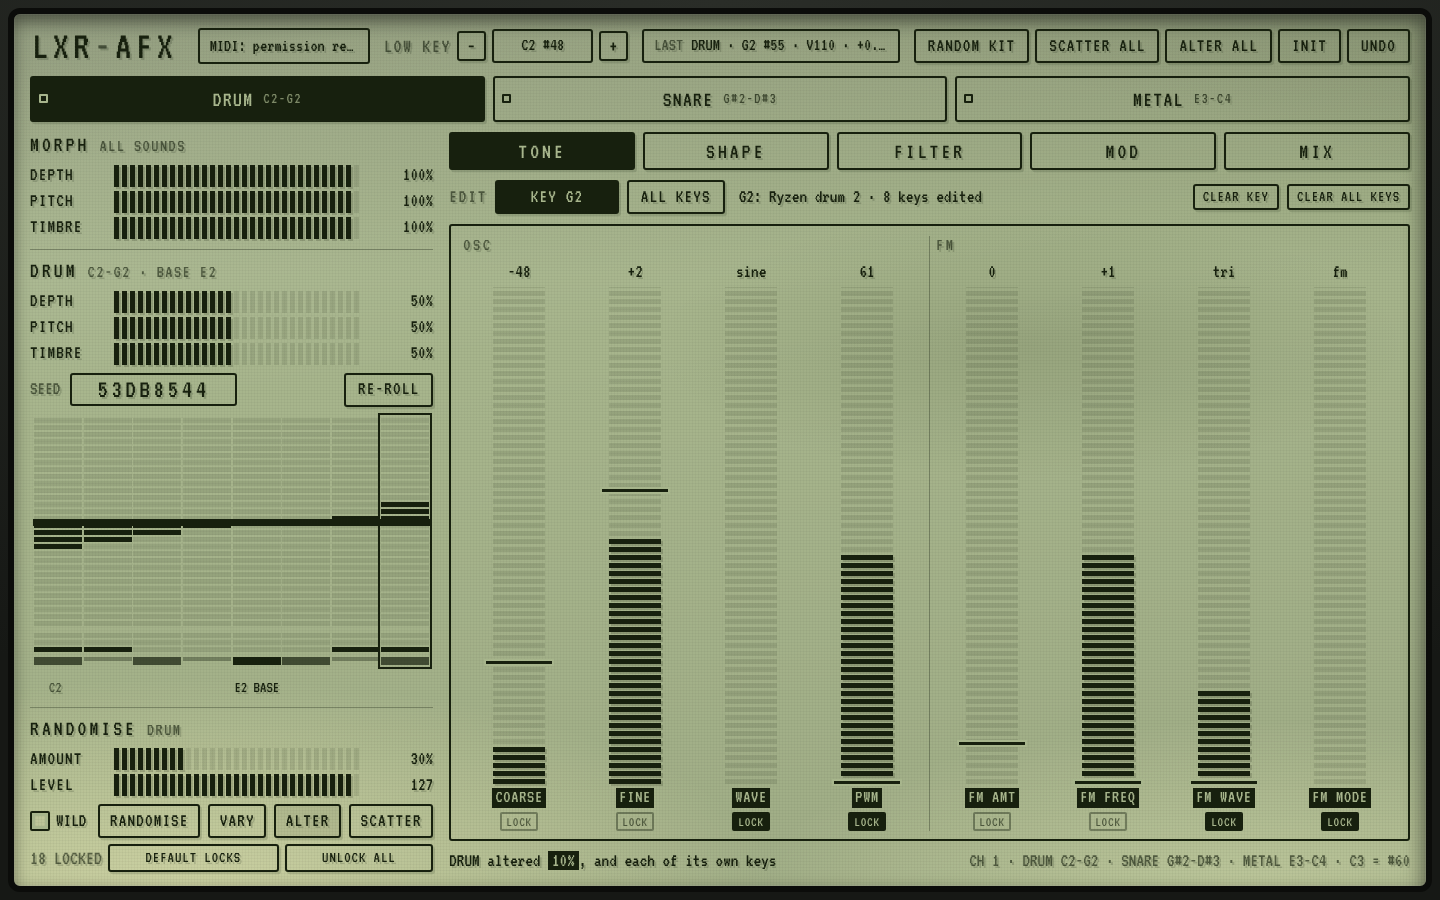
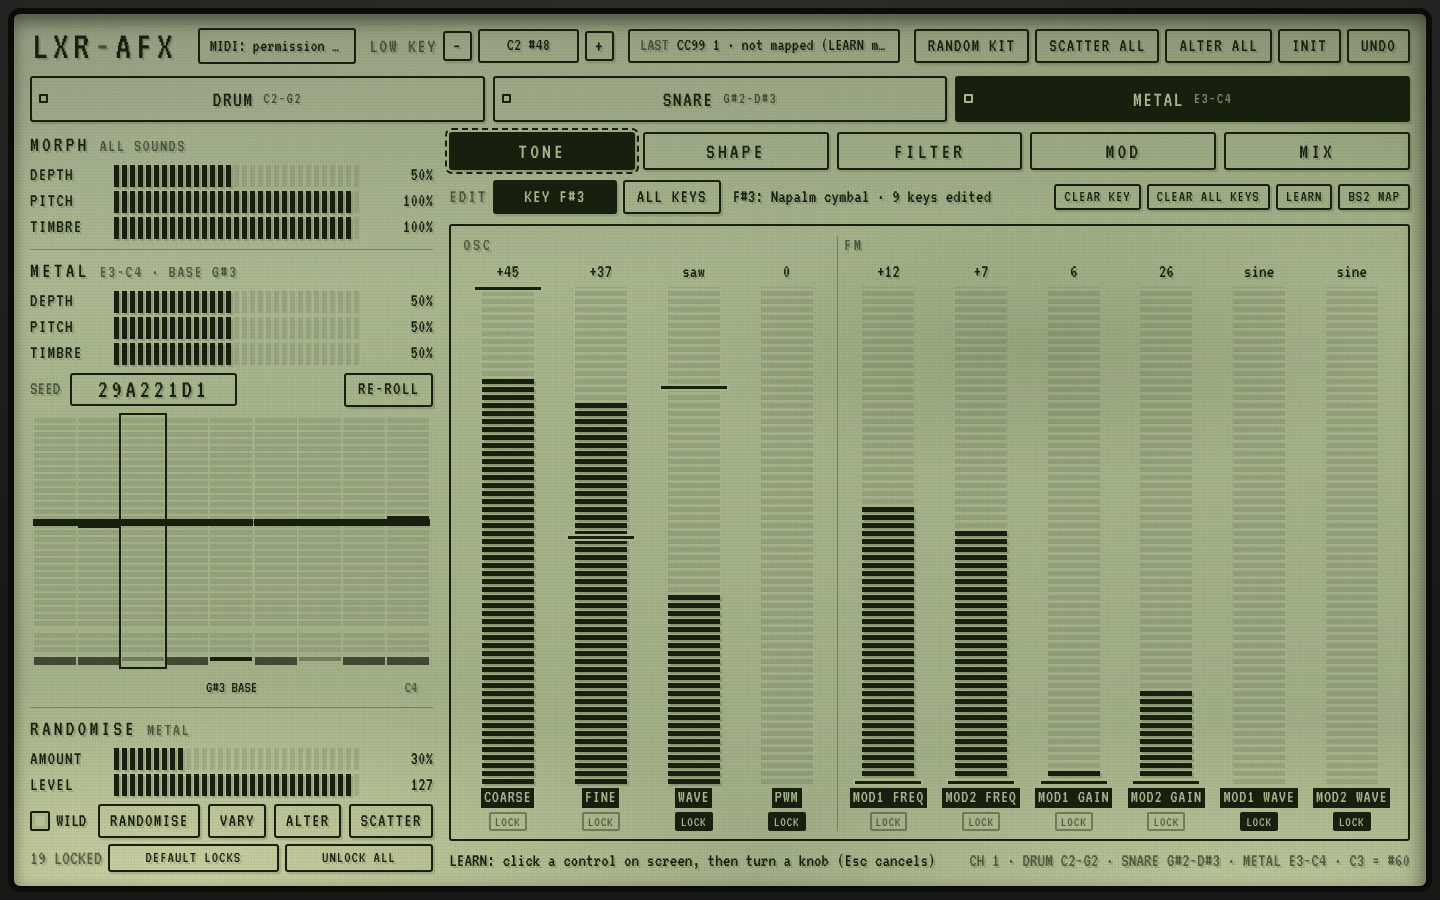
Bass Station 2 knobs: CC map on channel 1, LEARN, editor follows the sound played
Claude-Session: https://claude.ai/code/session_018ENZqU77miybkZNfffD9E3

diff --git a/app/main.js b/app/main.js
@@ -27,6 +27,7 @@ const S = {
   // per-key edits: keyEdits[sound][note] = { parameter: value }, laid over that key's morph
   keyEdits: SOUNDS.map(() => ({})),
   editAll: false,
+  ccMap: null, // knob map, CC number -> target; null: the Bass Station 2 default
   zoneStart: DEFAULT_ZONE_START, // the layout's lowest key (moved by octaves with LOW KEY) // the editor edits the last key pressed (false) or the base of every key (true)
 };
 try {
@@ -35,7 +36,7 @@ try {
     S.values = Uint8Array.from(d.values); S.defaults = Uint8Array.from(d.defaults || d.values);
     Object.assign(S.global, d.global); d.sounds.forEach((s, i) => Object.assign(S.sounds[i], s));
     S.locks = new Set(d.locks); Object.assign(S.rand, d.rand); S.sel = d.sel | 0; S.page = d.page | 0;
-    if (d.keyEdits) d.keyEdits.forEach((k, i) => { S.keyEdits[i] = k || {}; }); S.editAll = !!d.editAll; if (d.zoneStart) S.zoneStart = d.zoneStart;
+    if (d.keyEdits) d.keyEdits.forEach((k, i) => { S.keyEdits[i] = k || {}; }); S.editAll = !!d.editAll; if (d.zoneStart) S.zoneStart = d.zoneStart; S.ccMap = d.ccMap || null;
   }
 } catch (e) { /* first visit, or storage blocked */ }
 let saveT = 0;
@@ -44,7 +45,7 @@ const save = () => {
   saveT = setTimeout(() => {
     try {
       localStorage.setItem(STORE, JSON.stringify({ values: [...S.values], defaults: [...S.defaults], global: S.global, sounds: S.sounds,
-        locks: [...S.locks], rand: S.rand, sel: S.sel, page: S.page, keyEdits: S.keyEdits, editAll: S.editAll, zoneStart: S.zoneStart }));
+        locks: [...S.locks], rand: S.rand, sel: S.sel, page: S.page, keyEdits: S.keyEdits, editAll: S.editAll, zoneStart: S.zoneStart, ccMap: S.ccMap }));
     } catch (e) { /* storage blocked: it just isn't kept */ }
   }, 300);
 };
@@ -95,7 +96,8 @@ function play(sound, note, vel) {
   lastMorph[sound] = { key: note, values: m.vals, semitones: m.semitones };
   editKey[sound] = note;
   showLast(sound, note, vel, m.semitones);
-  if (sound === S.sel) { drawFaders(); drawKeymap(); drawEditKey(); }
+  // the editor follows the sound you play, so the knobs and the screen are always on the key you just pressed
+  if (sound !== S.sel) select(sound); else { drawFaders(); drawKeymap(); drawEditKey(); }
 }
 const pct = (o) => Object.fromEntries(Object.entries(o).map(([k, v]) => [k, k === 'seed' ? v : v / 100]));
 
@@ -129,8 +131,9 @@ let midi = null;
 function midiStatus(text, live) { const el = $('midi-status'); el.textContent = text; el.classList.toggle('live', !!live); el.title = text; }
 function onMidi(e) {
   const [st, note, vel] = e.data;
-  if ((st & 0xf0) !== 0x90 || !vel) return; // note-ons only (a note-on at velocity 0 is a note-off)
   const ch = (st & 0x0f) + 1;
+  if ((st & 0xf0) === 0xb0) { if (ch === 1) onCC(note, vel); return; } // a knob or slider (control change)
+  if ((st & 0xf0) !== 0x90 || !vel) return; // note-ons only (a note-on at velocity 0 is a note-off)
   noteOn(ch, note, vel);
 }
 function noteOn(ch, note, vel) {
@@ -151,8 +154,77 @@ async function startMidi() {
     midi.onstatechange = hook; hook();
   } catch (err) { midiStatus('MIDI: permission refused'); }
 }
-// for testing without a controller: afx.noteOn(channel, note, velocity) from the console
-window.afx = { noteOn: (ch, note, vel = 100) => noteOn(ch, note, vel) };
+// ---------------------------------------------------------------------------------------------------------------
+// knobs: MIDI CCs on channel 1. Sound controls act like the editor: on the last key played (or every key with ALL
+// KEYS), of the sound last played. The default map suits a Bass Station 2 (its CC numbers); LEARN maps any knob
+// ---------------------------------------------------------------------------------------------------------------
+// a target: { t: 'par', label: [labels to try, in order] } | { t: 'global', k } | { t: 'sound', k } | { t: 'zlevel', s }
+const CC_DEFAULT = {
+  16: { t: 'par', label: ['cutoff'], name: 'filter freq' }, 82: { t: 'par', label: ['reso'], name: 'resonance' },
+  114: { t: 'par', label: ['drive'], name: 'overdrive' }, 85: { t: 'par', label: ['pitch amt', 'mod2 gain'], name: 'mod env depth' },
+  90: { t: 'par', label: ['attack'], name: 'amp attack' }, 91: { t: 'par', label: ['decay'], name: 'amp decay' },
+  103: { t: 'par', label: ['pitch dec', 'mod1 freq'], name: 'mod env decay' }, 94: { t: 'par', label: ['fm amt', 'mod1 gain'], name: 'distortion' },
+  27: { t: 'par', label: ['coarse'], name: 'osc 1 coarse' }, 26: { t: 'par', label: ['fine'], name: 'osc 1 fine' },
+  18: { t: 'global', k: 'depth', name: 'lfo 1 speed' }, 5: { t: 'global', k: 'pitch', name: 'portamento' }, 19: { t: 'global', k: 'timbre', name: 'lfo 2 speed' },
+  20: { t: 'zlevel', s: 0, name: 'osc 1 level' }, 21: { t: 'zlevel', s: 1, name: 'osc 2 level' }, 22: { t: 'zlevel', s: 2, name: 'sub osc level' },
+};
+const ccMap = () => S.ccMap || CC_DEFAULT;
+function ccTargetName(t) {
+  if (t.t === 'par') return t.label[0];
+  if (t.t === 'global') return 'morph ' + t.k + ' (all)';
+  if (t.t === 'sound') return 'morph ' + t.k;
+  return SOUNDS[t.s].name.toLowerCase() + ' level';
+}
+let learn = null; // null, { armed: true } waiting for a control, then { target } waiting for a knob
+let ccDraw = 0;
+function onCC(cc, val) {
+  if (learn && learn.target) {
+    S.ccMap = { ...ccMap() };
+    for (const k in S.ccMap) if (JSON.stringify(S.ccMap[k]) === JSON.stringify(learn.target)) delete S.ccMap[k]; // one knob per control
+    S.ccMap[cc] = learn.target; save();
+    showLastText(`CC${cc} → ${ccTargetName(learn.target).toUpperCase()}`);
+    setLearn(null); return;
+  }
+  const t = ccMap()[cc];
+  if (!t) { showLastText(`CC${cc} ${val} · not mapped (LEARN maps it)`); return; }
+  let text;
+  if (t.t === 'global') { S.global[t.k] = Math.round(val / 127 * 100); text = `${ccTargetName(t)} ${S.global[t.k]}%`; }
+  else if (t.t === 'sound') { S.sounds[S.sel][t.k] = Math.round(val / 127 * 100); text = `${SOUNDS[S.sel].name} ${ccTargetName(t)} ${S.sounds[S.sel][t.k]}%`; }
+  else if (t.t === 'zlevel') { setValue(PAR.VOL1 + SOUNDS[t.s].engineVoice, val); text = `${ccTargetName(t)} ${val}`; }
+  else {
+    const sc = VOICE_SCHEMAS[SOUNDS[S.sel].engineVoice];
+    const e = t.label.map((l) => sc.find((x) => x.label === l)).find(Boolean);
+    if (!e) { showLastText(`CC${cc} · ${SOUNDS[S.sel].name} has no ${t.label[0]}`); return; }
+    const v = Math.round(val / 127 * e.max);
+    editValue(e.par, v);
+    text = `${SOUNDS[S.sel].name} ${editing() ? noteName(editKey[S.sel]) : 'ALL'} ${e.label} ${showValue(e, v)}`;
+  }
+  save();
+  showLastText(`CC${cc} · ${text.toUpperCase()}`);
+  if (!ccDraw) ccDraw = requestAnimationFrame(() => { ccDraw = 0; drawFaders(); drawSide(); });
+}
+// LEARN: press it, touch a control on screen, turn a knob
+function setLearn(l) {
+  learn = l;
+  $('learn').setAttribute('aria-pressed', !!l);
+  document.body.classList.toggle('learning', !!l);
+  if (l && !l.target) detail('LEARN: click a control on screen, then turn a knob (Esc cancels)');
+  else if (l) detail(`LEARN: now turn a knob for <em>${ccTargetName(l.target)}</em>`);
+}
+$('learn').addEventListener('click', () => setLearn(learn ? null : { armed: true }));
+$('cc-reset').addEventListener('click', () => { S.ccMap = null; save(); setLearn(null); detail('knobs: back to the Bass Station 2 map'); });
+document.addEventListener('pointerdown', (e) => {
+  if (!learn) return;
+  const el = e.target.closest('[data-learn]');
+  if (!el) return;
+  const t = JSON.parse(el.dataset.learn);
+  if (t.t === 'zlevel') t.s = S.sel;
+  setLearn({ target: t });
+}, true);
+document.addEventListener('keydown', (e) => { if (e.key === 'Escape' && learn) setLearn(null); });
+
+// for testing without a controller: afx.noteOn(channel, note, velocity) and afx.cc(number, value) from the console
+window.afx = { noteOn: (ch, note, vel = 100) => noteOn(ch, note, vel), cc: (cc, val) => onCC(cc, val) };
 
 // ---------------------------------------------------------------------------------------------------------------
 // the last note
@@ -213,6 +285,7 @@ function hbar(box, label, o) {
   el.querySelector('.lab').textContent = label;
   const tr = el.querySelector('.htrack'), out = el.querySelector('output');
   tr.setAttribute('aria-label', label); tr.setAttribute('aria-valuemin', o.min); tr.setAttribute('aria-valuemax', o.max);
+  if (o.learn) el.dataset.learn = JSON.stringify(o.learn);
   const draw = () => { const v = o.get(); tr.style.setProperty('--f', (v - o.min) / (o.max - o.min)); out.textContent = o.show(v); tr.setAttribute('aria-valuenow', v); };
   const put = (v) => { v = clamp(Math.round(v), o.min, o.max); if (v !== o.get()) { o.set(v); draw(); } };
   dragger(tr, 'x', { ...o, put });
@@ -225,9 +298,9 @@ function hbar(box, label, o) {
 // ---- the morph bars ----
 const P = (v) => v + '%';
 const globalDraws = ['depth', 'pitch', 'timbre'].map((k) => hbar($('global-bars'), k.toUpperCase(), {
-  min: 0, max: 100, get: () => S.global[k], set: (v) => { S.global[k] = v; save(); drawKeymap(); }, show: P, dflt: 100 }));
+  min: 0, max: 100, get: () => S.global[k], set: (v) => { S.global[k] = v; save(); drawKeymap(); }, show: P, dflt: 100, learn: { t: 'global', k } }));
 const soundDraws = ['depth', 'pitch', 'timbre'].map((k) => hbar($('sound-bars'), k.toUpperCase(), {
-  min: 0, max: 100, get: () => S.sounds[S.sel][k], set: (v) => { S.sounds[S.sel][k] = v; save(); drawKeymap(); }, show: P, dflt: 50 }));
+  min: 0, max: 100, get: () => S.sounds[S.sel][k], set: (v) => { S.sounds[S.sel][k] = v; save(); drawKeymap(); }, show: P, dflt: 50, learn: { t: 'sound', k } }));
 $('reroll').addEventListener('click', () => reroll());
 function reroll() { S.sounds[S.sel].seed = newSeed(); lastMorph[S.sel] = null; save(); drawSide(); drawFaders(); detail(`${SOUNDS[S.sel].name}: new seed <em>${hex(S.sounds[S.sel].seed)}</em>`); }
 
@@ -235,7 +308,7 @@ function reroll() { S.sounds[S.sel].seed = newSeed(); lastMorph[S.sel] = null; s
 const levelPar = () => PAR['VOL' + (SOUNDS[S.sel].engineVoice + 1)];
 const randDraws = [
   hbar($('rand-bars'), 'AMOUNT', { min: 0, max: 100, get: () => S.rand.amount, set: (v) => { S.rand.amount = v; save(); }, show: P, dflt: 30 }),
-  hbar($('rand-bars'), 'LEVEL', { min: 0, max: 127, get: () => S.values[levelPar()], set: (v) => { setValue(levelPar(), v); drawFaders(); }, show: String, dflt: () => S.defaults[levelPar()] }),
+  hbar($('rand-bars'), 'LEVEL', { min: 0, max: 127, get: () => S.values[levelPar()], set: (v) => { setValue(levelPar(), v); drawFaders(); }, show: String, dflt: () => S.defaults[levelPar()], learn: { t: 'zlevel', s: 0 } }),
 ];
 $('wild').checked = S.rand.wild;
 $('wild').addEventListener('change', () => { S.rand.wild = $('wild').checked; save(); });
@@ -386,6 +459,7 @@ function vfader(e) {
     else put(S.defaults[e.par]);
   };
   el.querySelector('.lab').addEventListener('dblclick', reset); tr.addEventListener('dblclick', reset);
+  el.dataset.learn = JSON.stringify({ t: 'par', label: [e.label] });
   tr.addEventListener('focus', () => detail(`${SOUNDS[S.sel].name} ${e.label.toUpperCase()} <em>${showValue(e, valueNow(e.par))}</em>`));
   lock.addEventListener('click', () => { if (S.locks.has(e.par)) S.locks.delete(e.par); else S.locks.add(e.par); save(); draw(); drawLocks(); });
   faderDraws.push(draw);

diff --git a/css/lcd.css b/css/lcd.css
@@ -131,11 +131,12 @@ h2 .dim { font-size: 18px; letter-spacing: .08em; }
 .vf.held .vtrack { outline: 2px solid var(--ink); outline-offset: 3px; }
 .vf.changed .lab::after { content: "*"; }
 .vf.keyed .lab, .vsel.keyed label { background: var(--ink); color: var(--panel); text-shadow: none; padding: 0 3px; }
-.editbar { display: flex; align-items: center; gap: 8px; font-size: 19px; }
+.editbar { display: flex; align-items: center; gap: 6px; font-size: 19px; min-width: 0; }
 .editbar > .dim { letter-spacing: .1em; }
 .editbar #edit-key { min-width: 6.5em; }
-.editbar .info { flex: 1; white-space: nowrap; overflow: hidden; text-overflow: ellipsis; padding-left: 6px; }
+.editbar .info { flex: 1; min-width: 0; white-space: nowrap; overflow: hidden; text-overflow: ellipsis; padding-left: 6px; }
 .keymap canvas { cursor: pointer; }
+body.learning [data-learn] { outline: 2px dashed var(--ink); outline-offset: 2px; cursor: crosshair; }
 .lock { border: 2px solid var(--ink); border-radius: 2px; background: transparent; font-size: 14px; line-height: 1; padding: 1px 4px 0; cursor: pointer;
   letter-spacing: .06em; color: var(--muted); border-color: rgba(23, 32, 14, .4); text-shadow: none; }
 .lock[aria-pressed="true"] { background: var(--ink); color: var(--panel); border-color: var(--ink); }

diff --git a/index.html b/index.html
@@ -70,6 +70,8 @@
         <span id="edit-info" class="info"></span>
         <button class="btn sm" id="clear-key" title="This key back to its plain morph">CLEAR KEY</button>
         <button class="btn sm" id="clear-keys" title="Every key of this sound back to its plain morph">CLEAR ALL KEYS</button>
+        <button class="btn sm" id="learn" title="Map a knob: press, click a control on screen, turn the knob">LEARN</button>
+        <button class="btn sm" id="cc-reset" title="Knobs back to the Bass Station 2 map">BS2 MAP</button>
       </div>
       <div class="faders" id="faders"></div>
       <footer class="status"><span id="detail">Play a key, then edit: the change stays on that key. ALL KEYS edits the base, and every key follows.</span>

diff --git a/README.md b/README.md
@@ -16,7 +16,12 @@ An AFX-mode drum instrument in the browser: three sounds on one MIDI channel, ev
 - **Editor**: every parameter of each sound (tone, shape, filter, mod, mix). By default an edit changes only the last key
   pressed (or the key picked on the key map), kept on top of that key's morph; **ALL KEYS** edits the base instead, and
   every key's morph follows. **CLEAR KEY** / **CLEAR ALL KEYS** take a sound's key edits away.
-- **Randomisers**: **RANDOMISE** pulls in a variant from the built-in kits (a voice of the same type from a random kit,
+- **Knobs** (MIDI CC on channel 1), mapped for a Bass Station 2: they act on the last key played, like the editor (which
+  follows the sound you play). Filter freq → cutoff, resonance → reso, overdrive → drive, amp attack/decay → attack/decay,
+  mod env decay → pitch decay, mod env depth → pitch amount, distortion → FM amount, osc 1 coarse/fine → coarse/fine,
+  LFO 1 speed / portamento / LFO 2 speed → morph depth / pitch / timbre (all sounds), osc 1 / osc 2 / sub levels → the
+  drum / snare / metal levels. **LEARN** maps any knob to any control: press it, click the control, turn the knob.
+- **Randomisers**: **SCATTER** deals a different real kit sound of the zone's type onto every key. **RANDOMISE** pulls in a variant from the built-in kits (a voice of the same type from a random kit,
   varied by the amount; locked controls stay), **VARY** and **ALTER** move the current sound, **RANDOM KIT** and
   **ALTER ALL** do all three sounds, with undo.
 
